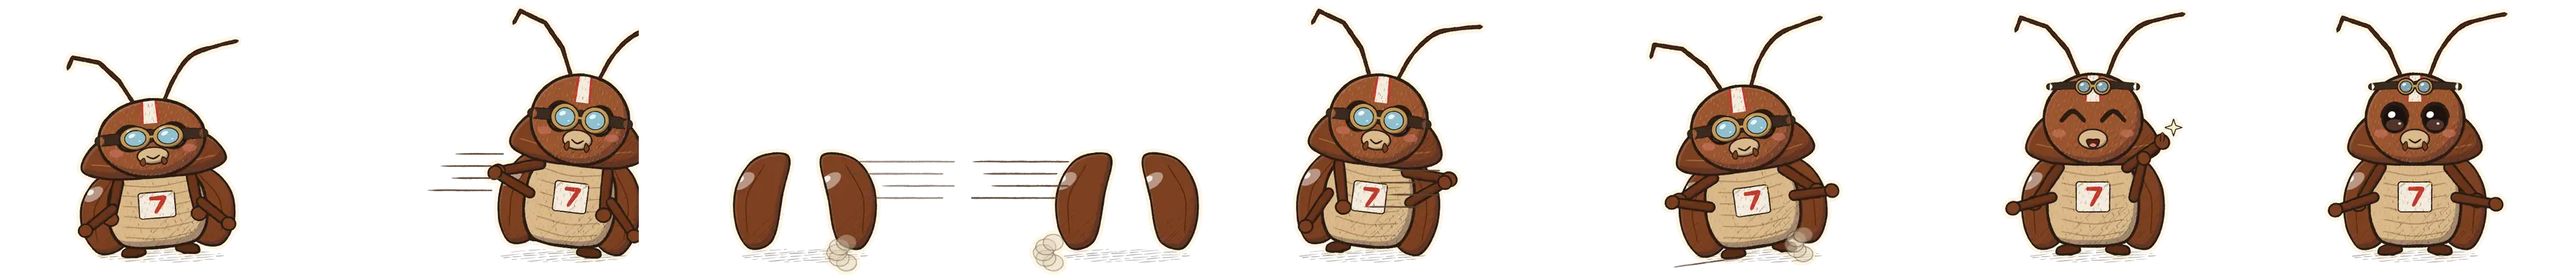
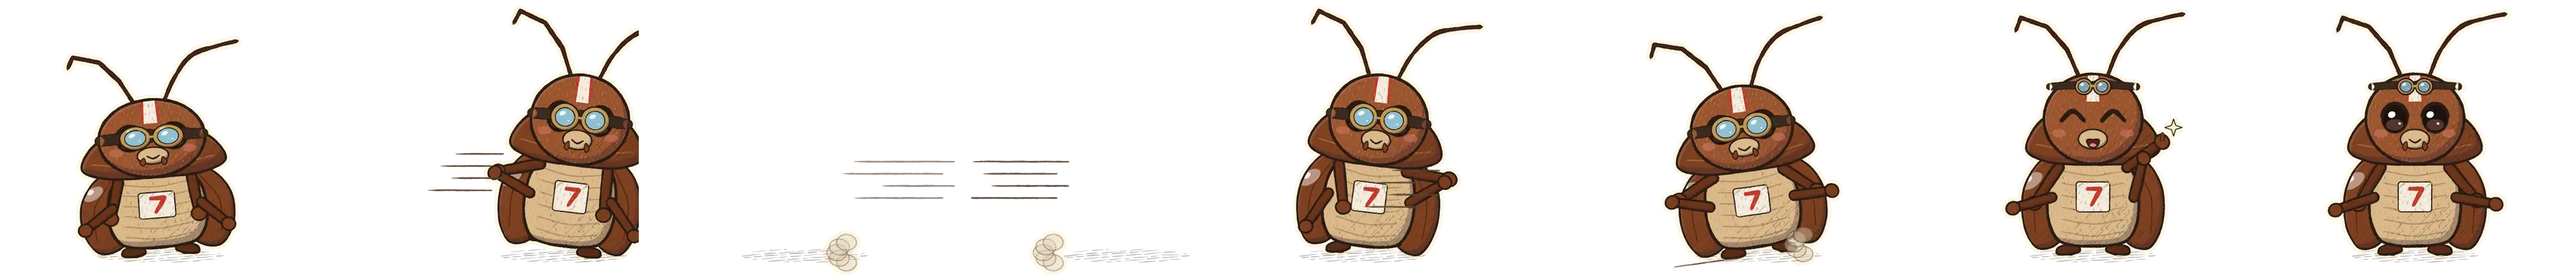
fix(pets): v2.74.1 — таракан не оставляет надкрылья в воздухе, когда убегает
Claude-Session: https://claude.ai/code/session_018QnrYRe8jfmREkVPy3Dca8

Changed region(s): [[0.4044, 0.5258, 0.4666, 0.8969], [0.28, 0.5258, 0.3422, 0.8969]]

diff --git a/src/version.ts b/src/version.ts
@@ -4,7 +4,7 @@
 // BUMP `APP_VERSION` on every release and mention it in the commit message.
 // `__BUILD_AT__` (injected by Vite) changes on every build as an extra signal,
 // so even without a bump the timestamp will differ once the new bundle loads.
-export const APP_VERSION = '2.74.0';
+export const APP_VERSION = '2.74.1';
 
 const buildFmt = new Intl.DateTimeFormat('ru-RU', {
   day: 'numeric',

diff --git a/scripts/pets-ink/src/pets/40-roach.js b/scripts/pets-ink/src/pets/40-roach.js
@@ -37,6 +37,8 @@
   };
 
   function wingCases(ctx, R, B) {
+    // the back layer is drawn even while he is off the picture: no wings hanging in the air
+    if (R.pose.hide) return;
     const T = R.Mb;
     for (const s of [-1, 1]) {
       const w = M.all(T, K.smooth([[s * 60, -340], [s * 170, -330], [s * 238, -230], [s * 236, -90], [s * 190, -20], [s * 120, -40], [s * 80, -200]], 4));

diff --git a/src/lib/pet-sprites.ts b/src/lib/pet-sprites.ts
@@ -12,7 +12,7 @@ export interface PetStrip {
 
 export const PET_LARGE = ["idle", "happy", "work"] as const;
 
-export const PET_REV = '0d84a91a98';
+export const PET_REV = 'e2c4b8098e';
 
 export const PET_SPRITES: Record<string, { anims: Record<string, PetStrip> }> = {
   "badger": {
